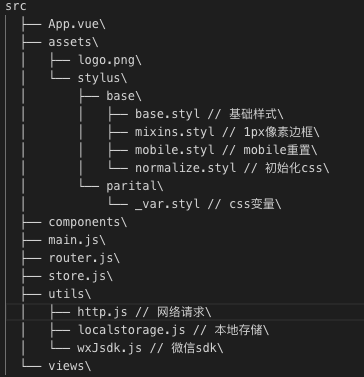
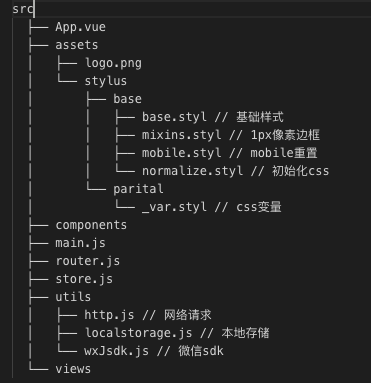
添加说明

Changed region(s): [[0.0, 0.0, 0.9066, 0.992]]

diff --git a/README.md b/README.md
@@ -4,5 +4,5 @@
 >1. js-cookie 
 >2. dayjs // 日期转换
 
-##目录结构说明\
+##目录结构说明
 ![目录结构](./doc/tree.png)
